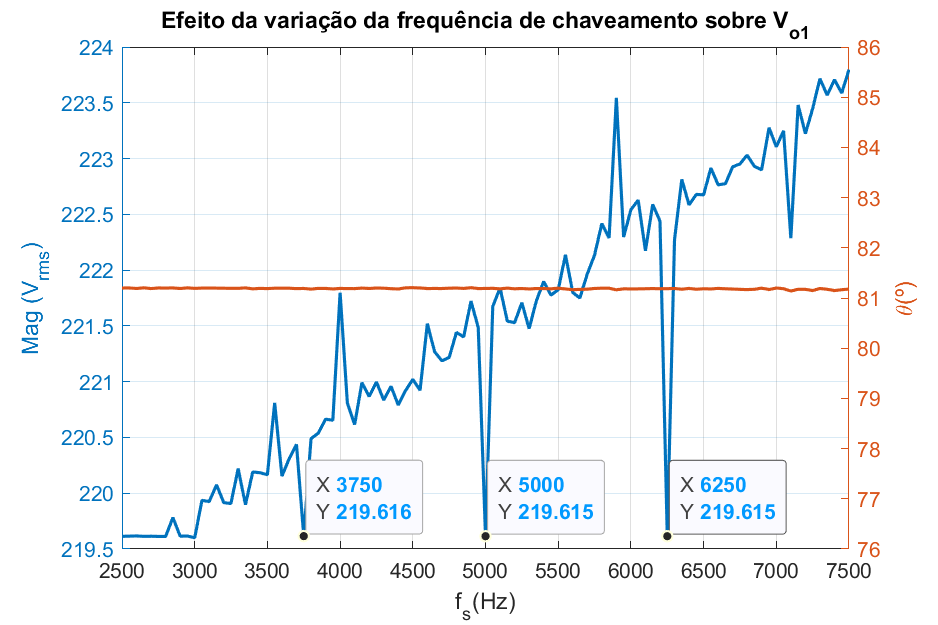
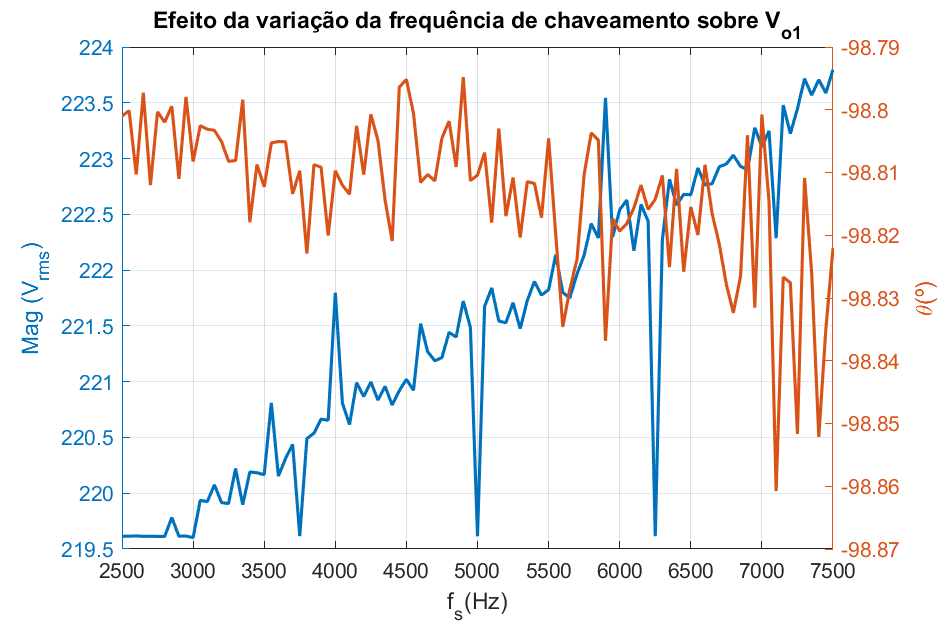
changed circuit

diff --git a/FiltroLCL/plot_sim_results.m b/FiltroLCL/plot_sim_results.m
@@ -49,11 +49,9 @@ figure('Name', 'Efeito da variação de carga em Vo', ...
 yyaxis left
 p = plot(P, Vo_mag, 'LineWidth', 1.5); grid on;
 ylabel('Mag (V_{rms})');
-datatip(p, 4100, 219.615);
 yyaxis right
 p = plot(P, Vo_phase, 'LineWidth', 1.5); grid on;
-ylabel('\theta(º)'); ylim([76, 86]);
-datatip(p, 4100, 81.19, 'Location','southwest');
+ylabel('\theta(º)');
 
 xlabel('P(W)');
 title('Efeito da variação da carga sobre V_{o1}');
@@ -84,10 +82,10 @@ figure('Name', 'Efeito da variação de fs em Vo', ...
 yyaxis left
 p = plot(fs, Vo_mag, 'LineWidth', 1.5); grid on;
 ylabel('Mag (V_{rms})');
-datatip(p, 3750, 220); datatip(p, 5000, 220); datatip(p, 6250, 220);
+
 yyaxis right
 plot(fs, Vo_phase, 'LineWidth', 1.5); grid on;
-ylabel('\theta(º)'); ylim([76, 86]);
+ylabel('\theta(º)');
 
 xlabel('f_s(Hz)');
 title('Efeito da variação da frequência de chaveamento sobre V_{o1}');

diff --git a/FiltroLCL/main.py b/FiltroLCL/main.py
@@ -12,8 +12,6 @@ Vn = 220.0;     Pn = 4100.0;    Lf1 = 3.0e-3;   Lf2 = 2.0e-3
 Cf  = 2.2e-6;   Rd  = 10.0;     ma  = 0.95;     fs  = 5000.0
 Vcc = 1.01 * (Vn * np.sqrt(2) / ma);            Ro = (Vn ** 2) / Pn
 theta = 0.0
-## Para correção de fase na operação nominal:
-## theta = -81.1896
 
 ## Operação na Potência nominal:
 nominal_op = {
